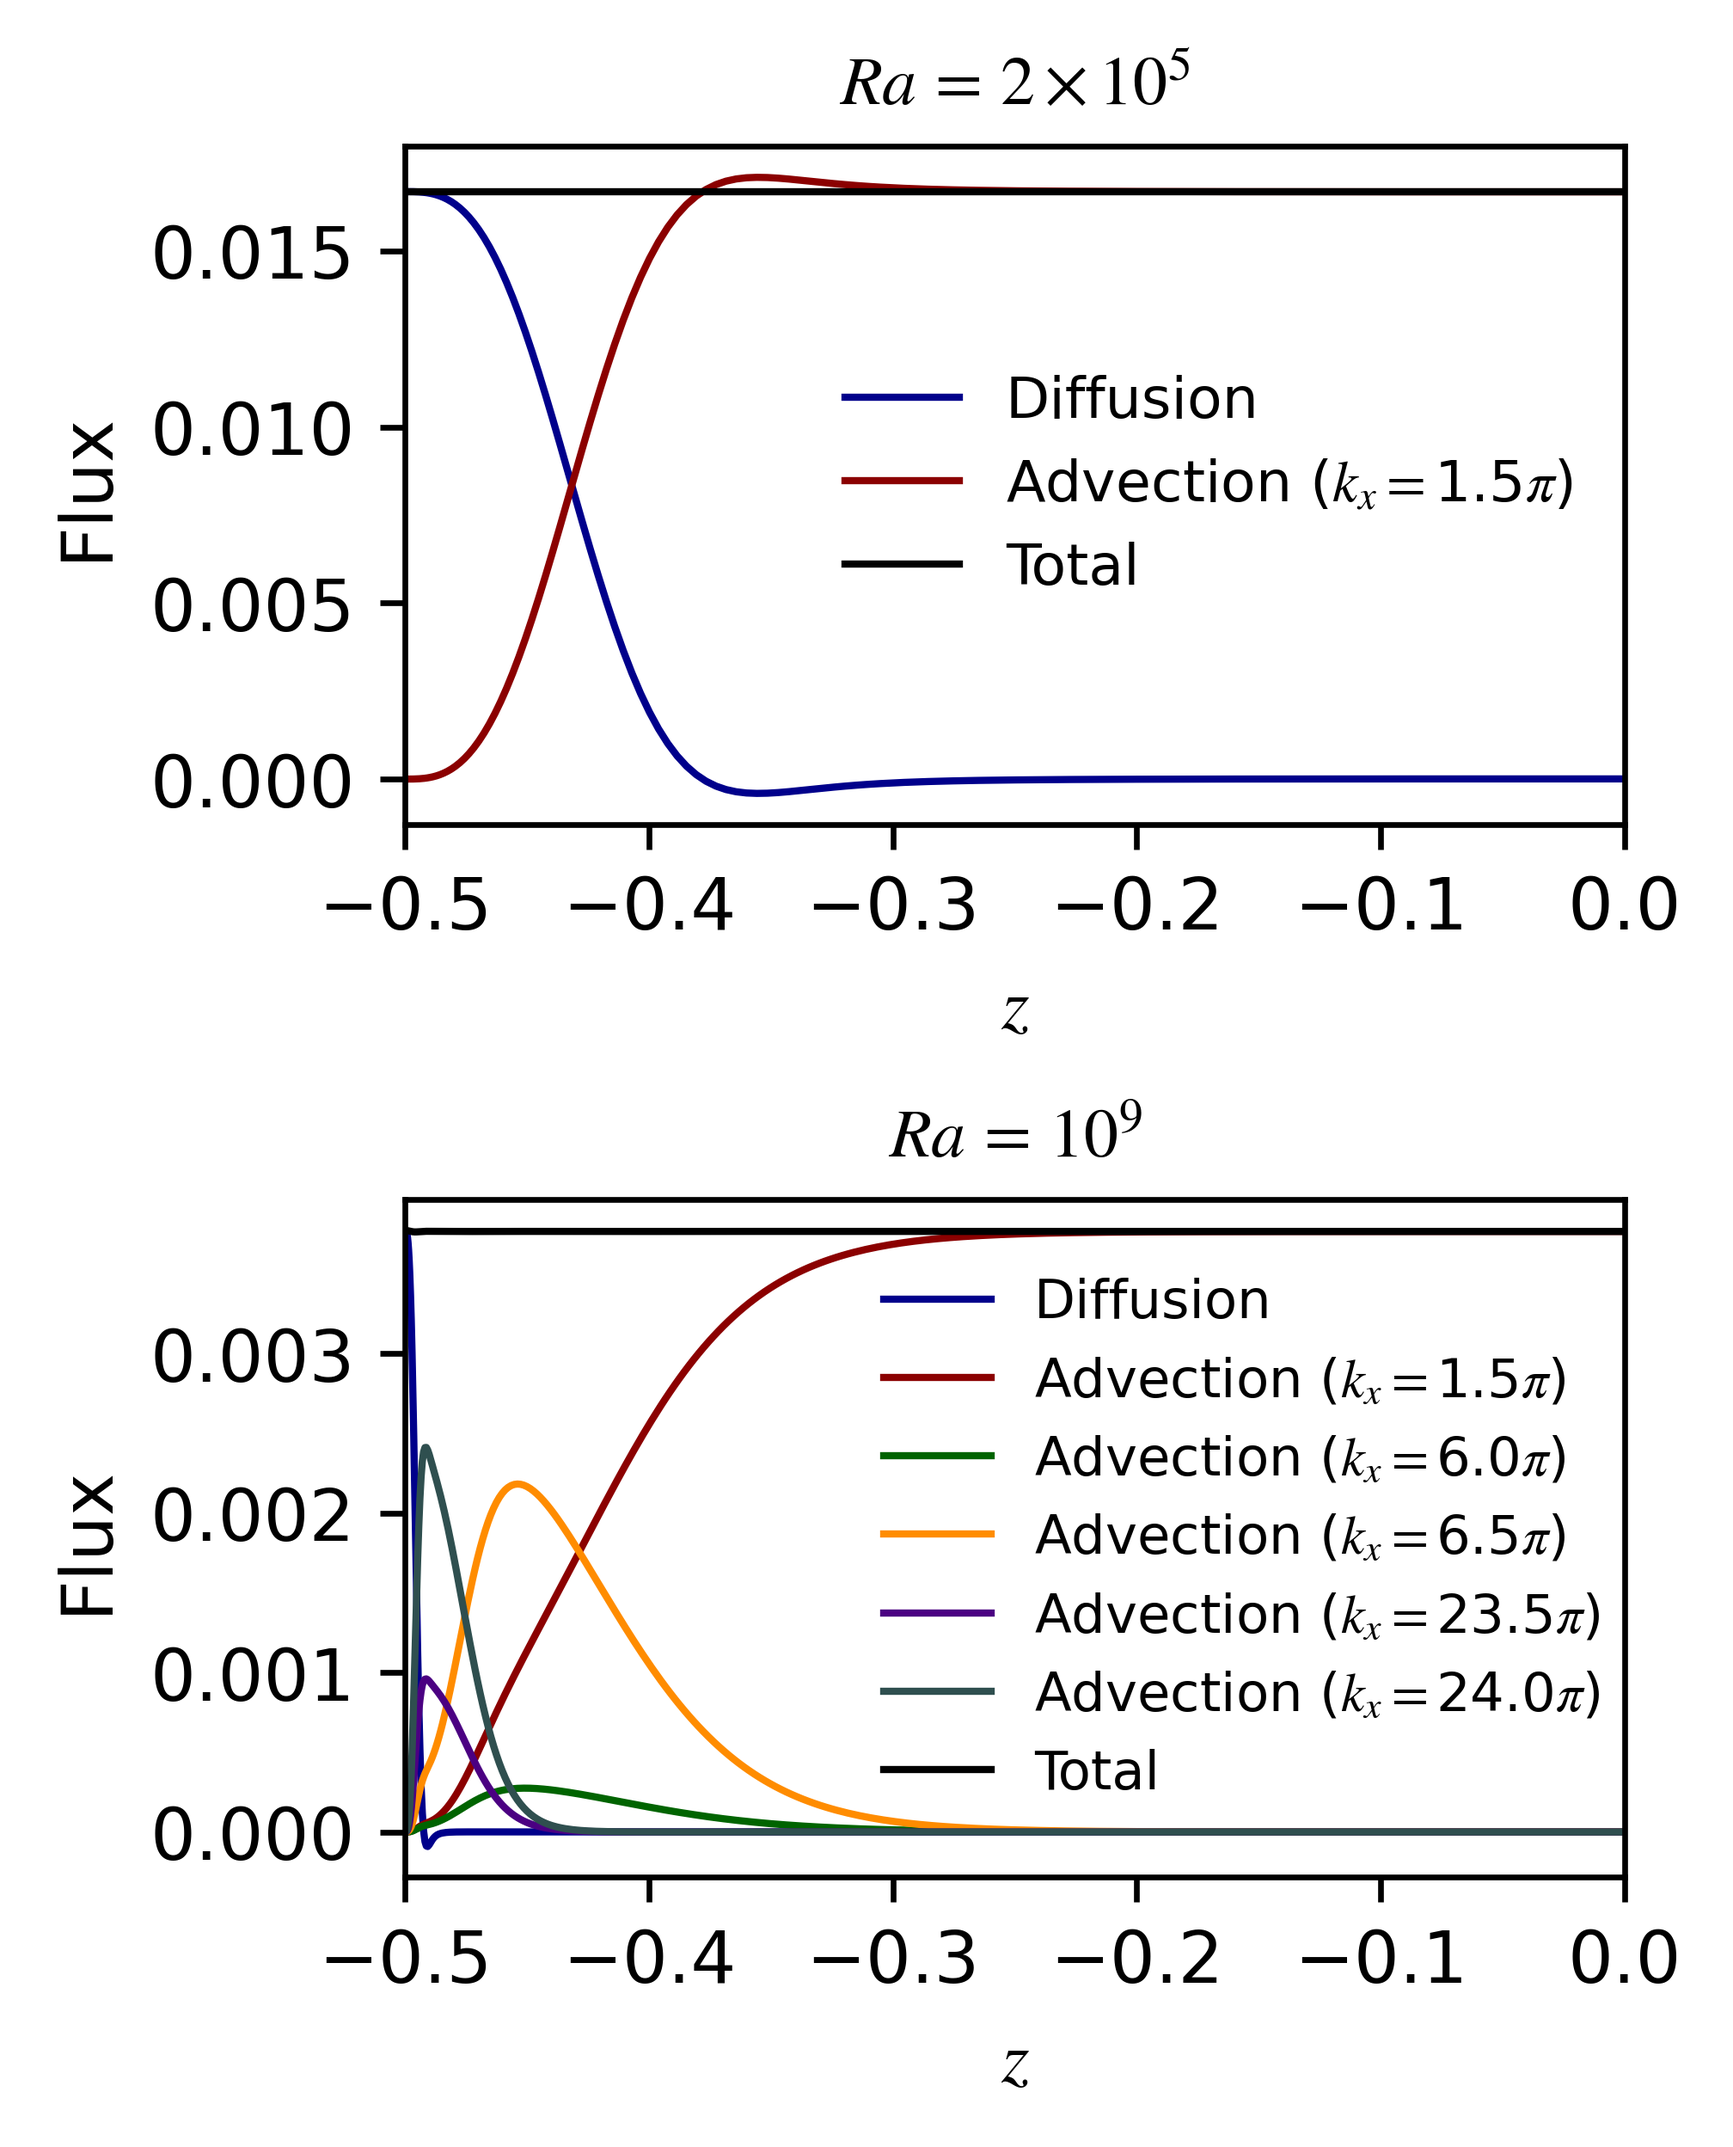
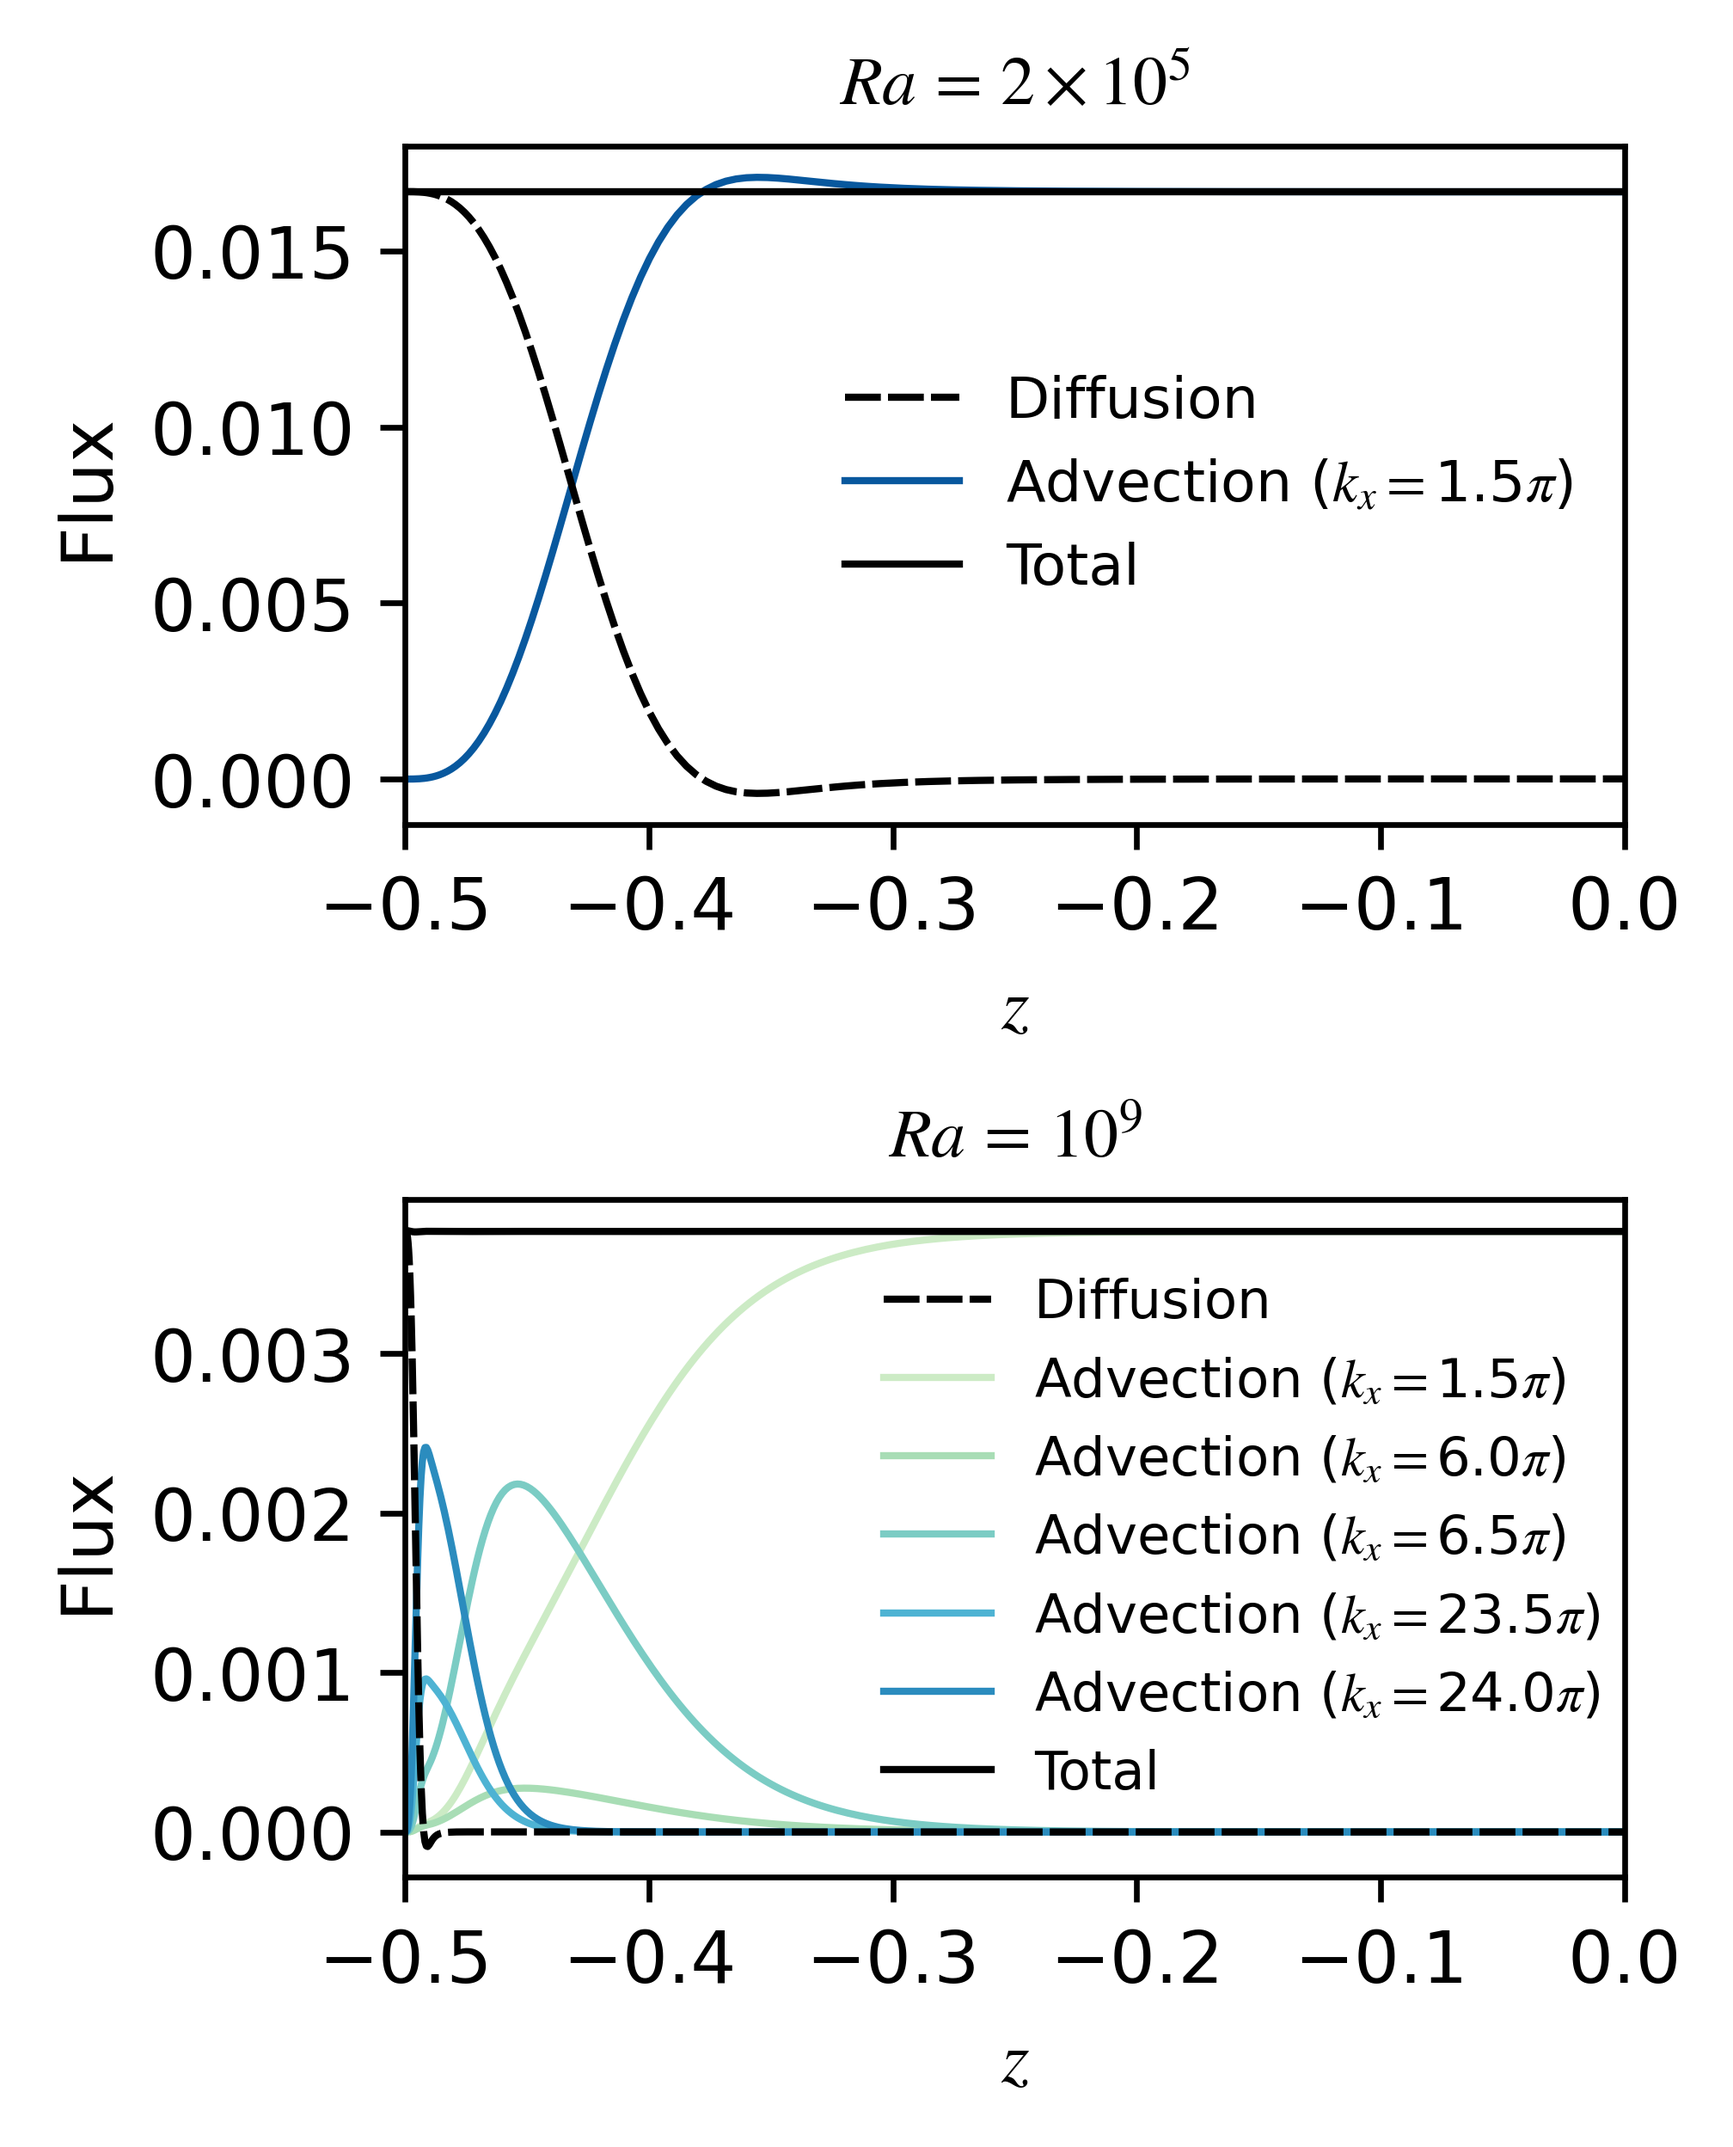
figs preview 1

diff --git a/plot_flux.py b/plot_flux.py
@@ -59,7 +59,7 @@ def plot_flux(Rayleigh, ax, path, iteration):
         advection4 = wb4*amp4
         advection5 = wb5*amp5
         flux = diffusion + advection1 + advection2 + advection3 + advection4 + advection5
-        plt.plot(z, diffusion, label = 'Diffusion')
+        ax.plot(z, diffusion, label = 'Diffusion', color='black', linestyle=(0, (5, 1)), zorder=10)
         pi_mult1 = str(round(kx1/np.pi, 1))
         pi_mult2 = str(round(kx2/np.pi, 1))
         pi_mult3 = str(round(kx3/np.pi, 1))
@@ -91,9 +91,9 @@ def plot_flux(Rayleigh, ax, path, iteration):
         diffusion = - P*b0z
         advection = wb*amp
         flux = diffusion + advection
-        ax.plot(z, diffusion, label = 'Diffusion')
         pi_mult = str(round(kx/np.pi, 1))
-        ax.plot(z, advection, label = 'Advection ($k_x  = $' + pi_mult + '$\pi$)')
+        ax.plot(z, diffusion, label = 'Diffusion', color='black', linestyle=(0, (5, 1)), zorder=10)
+        ax.plot(z, advection, label = 'Advection ($k_x  = $' + pi_mult + '$\pi$)', color='#08589e')
         ax.plot(z, flux, label = 'Total', color='black')
         ax.set_xlim(-0.5, 0.0)
         ax.legend(frameon=False, loc='center right')

diff --git a/plot_spectra_2ra.py b/plot_spectra_2ra.py
@@ -47,8 +47,8 @@ def plot_EVs(evs_mat, labels):
             else:
                 kx_s.append(kxs[j])
                 evs_s.append(EVs[j])
-        ax.plot(kx_s, evs_s, '.', label='Stable', linestyle='None')
-        ax.plot(kx_m, evs_m, 'x', label='Marginal', markersize=3, linestyle='None')
+        ax.plot(kx_s, evs_s, '.', label='Stable', linestyle='None', color='#08589e')
+        ax.plot(kx_m, evs_m, 'x', label='Marginal', markersize=3, linestyle='None', color='black')
         ax.set_title(labels[i])
         ax.set_xlim(xlims[i])
         ax.set_ylim(ylims[i])
@@ -56,7 +56,8 @@ def plot_EVs(evs_mat, labels):
         ax.xaxis.set_major_locator(tck.MultipleLocator(maj_loc[i]))
         ax.xaxis.set_minor_locator(tck.MultipleLocator(np.pi / 2))
         ax.xaxis.set_major_formatter(plt.FuncFormatter(format_func))
-        ax.grid(True)
+        ax.grid(False)
+        ax.axhline(y=0.0, color='black', alpha=0.2)
         ax.set_xlabel(r'$k_x$')
         ax.set_ylabel(r'$\omega$')
         ax.yaxis.set_major_formatter(FormatStrFormatter('%.4f'))

diff --git a/plot_ke.py b/plot_ke.py
@@ -76,12 +76,12 @@ if __name__ == "__main__":
         ke_ar = ke_data['ke_ar']
         sim_times_ar_eq = ke_data_eq['sim_times_ar']
         sim_times_ar = ke_data['sim_times_ar']
-        plt.plot(sim_times_ar, ke_ar, color='darkred', label = 'Conductive I.C.')
-        plt.plot(sim_times_ar_eq, ke_ar_eq, color='darkblue', label = 'Equilibrated I.C.')
+        plt.plot(sim_times_ar, ke_ar, color='black', label = 'Conductive I.C.')
+        plt.plot(sim_times_ar_eq, ke_ar_eq, color='#08589e', label = 'Equilibrated I.C.')
         plt.xlim(0, 400)
         plt.legend(frameon=False)
         plt.xlabel(r'$t$')
         plt.ylabel(r'$\overline{|\mathbf{u}|^2}$')
         plt.title(r'$Ra \, = \, 10^8$')
-        # plt.savefig(path + '/pubfigs/sim_eq_ke')
-        plt.savefig(path + '/publication_materials/sim_eq_ke_p0_2')
+        plt.savefig(path + '/publication_materials/sim_eq_ke')
+        # plt.savefig(path + '/publication_materials/sim_eq_ke_p0_2')

diff --git a/plot_nu.py b/plot_nu.py
@@ -108,12 +108,12 @@ if __name__ == "__main__":
         nu_ar = nu_data['nu_ar']
         sim_times_ar_eq = nu_data_eq['sim_times_ar']
         sim_times_ar = nu_data['sim_times_ar']
-        plt.plot(sim_times_ar, nu_ar, color='darkred', label = 'Conductive I.C.')
-        plt.plot(sim_times_ar_eq, nu_ar_eq, color='darkblue', label = 'Equilibrated I.C.')
+        plt.plot(sim_times_ar, nu_ar, color='black', label = 'Conductive I.C.')
+        plt.plot(sim_times_ar_eq, nu_ar_eq, color='#08589e', label = 'Equilibrated I.C.')
         plt.xlim(0, 100)
         plt.legend(frameon=False)
         plt.xlabel(r'$t$')
-        plt.ylabel(r'$Nu$')
+        plt.ylabel(r'$\mathrm{Nu}$')
         plt.title(r'$Ra \, = \, 10^8$')
         # plt.savefig(path + '/pubfigs/sim_eq_nu')
         plt.savefig(path + '/publication_materials/sim_eq_nu')

diff --git a/publication_settings.py b/publication_settings.py
@@ -7,15 +7,12 @@ fig_width = 3.4 # in column width
 # fig_width = 7.1 # in page width
 fig_height = fig_width * golden_mean
 fig_size =  [fig_width,fig_height]
-colors = [
-    "darkblue",
-    "darkred",
-    "darkgreen",
-    "darkorange",
-    "indigo",
-    "darkslategrey",
-    "darkgoldenrod"
-]
+colors = ['#ccebc5',
+  '#a8ddb5',
+  '#7bccc4',
+  '#4eb3d3',
+  '#2b8cbe',
+  '#08589e']
 
 params = {#'backend': 'eps',
           'axes.prop_cycle' : matplotlib.cycler(color=colors),

diff --git a/plot_spectra_modes.py b/plot_spectra_modes.py
@@ -43,7 +43,8 @@ def plot_EVs(evs_mat, labels):
         ax.xaxis.set_major_locator(tck.MultipleLocator(5*np.pi))
         ax.xaxis.set_minor_locator(tck.MultipleLocator(np.pi / 2))
         ax.xaxis.set_major_formatter(plt.FuncFormatter(format_func))
-        ax.grid(True)
+        ax.grid(False)
+        ax.axhline(y=0.0, color='black', alpha=0.2)
         if (i == 1):
             ax.set_ylabel(r'$\omega$')
 
